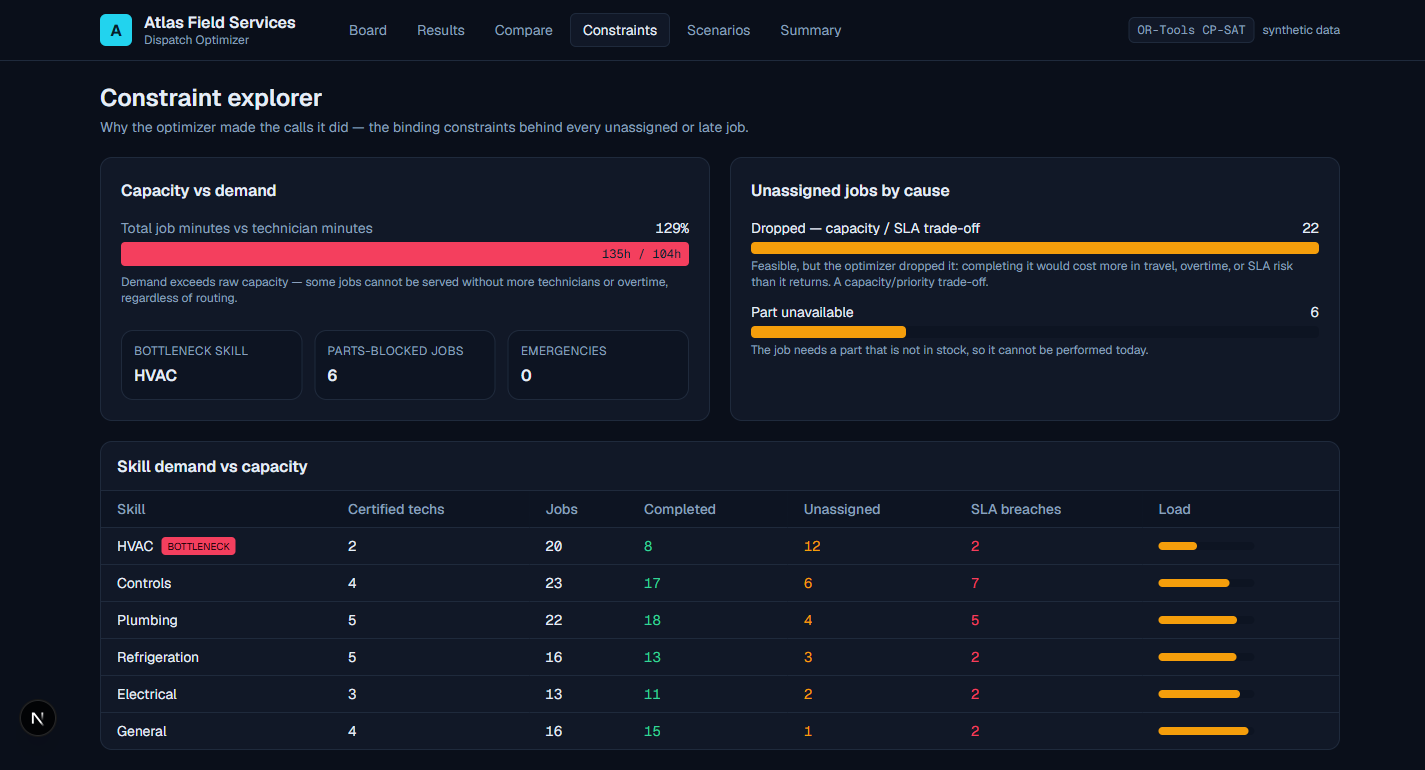
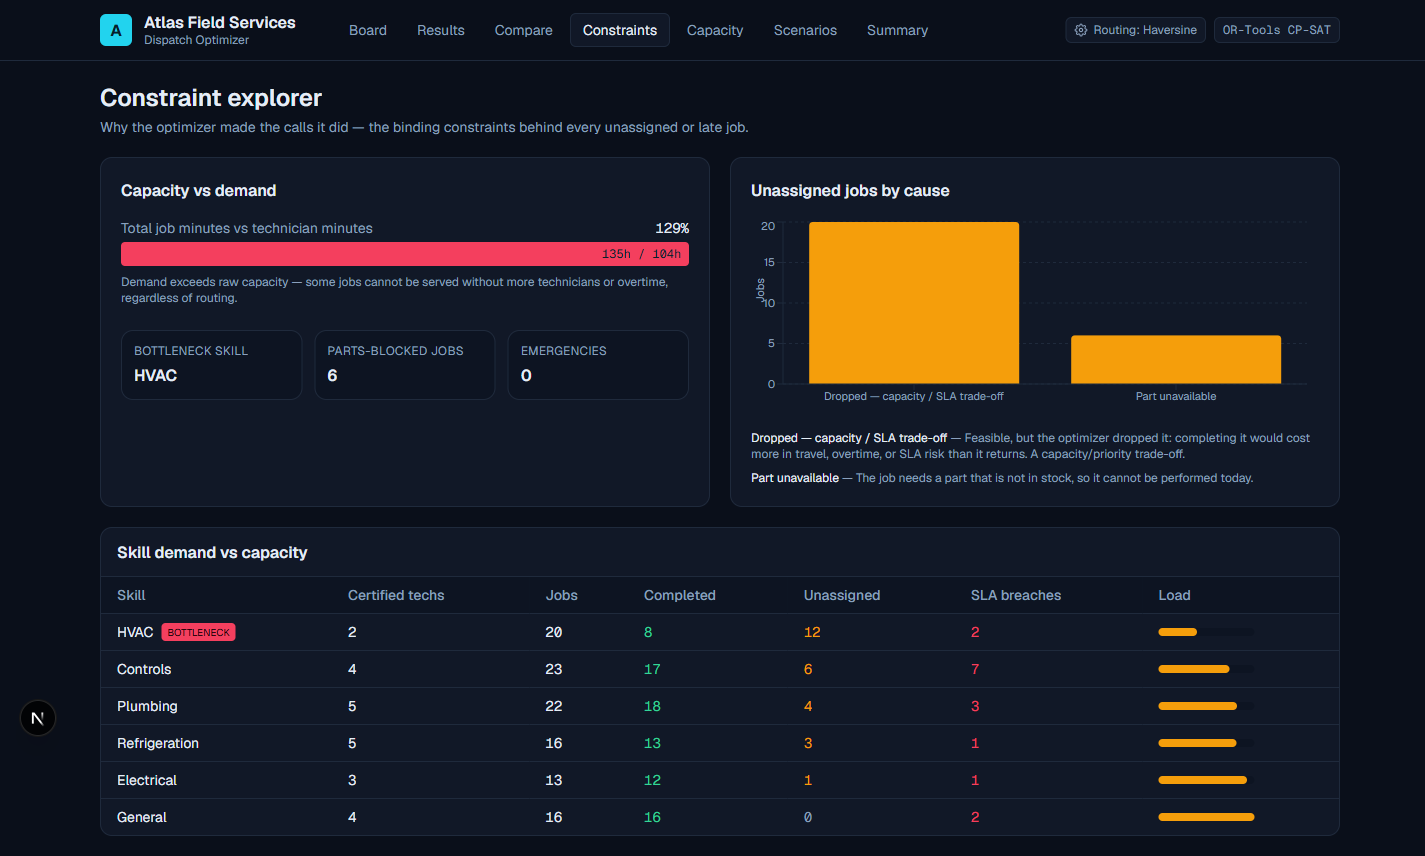
feat(frontend): port remaining charts to Recharts for visual consistency
Before/after (small multiples, per-metric scale), technician utilization
(grouped horizontal bars), and Constraint Explorer's unassigned-by-cause (bar
chart + explanation list) now use Recharts, matching the capacity page. Shared
chart theme in chartTheme.ts. Refreshed screenshots.

diff --git a/frontend/components/Charts.tsx b/frontend/components/Charts.tsx
@@ -1,92 +1,108 @@
 "use client";
 
+import {
+  Bar,
+  BarChart,
+  CartesianGrid,
+  Legend,
+  ResponsiveContainer,
+  Tooltip,
+  XAxis,
+  YAxis,
+} from "recharts";
 import { Utilization } from "@/lib/api";
+import { AXIS, COLOR_MANUAL, COLOR_OPT, GRID, TOOLTIP } from "@/components/chartTheme";
 
 interface BarRow {
   label: string;
   baseline: number;
   optimized: number;
-  betterWhenLower?: boolean;
   unit?: string;
 }
 
-/** Grouped baseline-vs-optimized bars, one group per metric. */
+/** Before/after as small multiples — one mini chart per metric, each on its own
+ *  scale (metrics have very different magnitudes, so a shared axis would lie). */
 export function BeforeAfterChart({ rows }: { rows: BarRow[] }) {
   return (
-    <div className="space-y-4">
-      {rows.map((r) => {
-        const max = Math.max(r.baseline, r.optimized, 1);
-        const bw = (r.baseline / max) * 100;
-        const ow = (r.optimized / max) * 100;
-        return (
-          <div key={r.label}>
-            <div className="flex justify-between text-sm mb-1">
-              <span style={{ color: "var(--muted)" }}>{r.label}</span>
-            </div>
-            <div className="space-y-1">
-              <Bar value={r.baseline} widthPct={bw} color="#64748b" tag="Manual" unit={r.unit} />
-              <Bar value={r.optimized} widthPct={ow} color="var(--accent)" tag="Optimized" unit={r.unit} />
-            </div>
+    <div className="grid grid-cols-2 gap-4">
+      {rows.map((r) => (
+        <div key={r.label}>
+          <div className="text-xs mb-1" style={{ color: "var(--muted)" }}>
+            {r.label}{r.unit ? ` (${r.unit})` : ""}
           </div>
-        );
-      })}
-    </div>
-  );
-}
-
-function Bar({ value, widthPct, color, tag, unit }: {
-  value: number; widthPct: number; color: string; tag: string; unit?: string;
-}) {
-  return (
-    <div className="flex items-center gap-2">
-      <span className="w-20 text-xs" style={{ color: "var(--muted)" }}>{tag}</span>
-      <div className="flex-1 h-6 rounded" style={{ background: "var(--panel-2)" }}>
-        <div className="h-6 rounded flex items-center justify-end pr-2"
-          style={{ width: `${Math.max(widthPct, 6)}%`, background: color }}>
-          <span className="text-xs font-medium mono" style={{ color: "#06202b" }}>
-            {value}{unit}
-          </span>
-        </div>
-      </div>
-    </div>
-  );
-}
-
-/** Per-technician utilization, baseline vs optimized, to show load balancing. */
-export function UtilizationChart({ baseline, optimized }: {
-  baseline: Utilization[]; optimized: Utilization[];
-}) {
-  const byTech = new Map<number, { name: string; b?: number; o?: number }>();
-  for (const u of baseline) byTech.set(u.tech_id, { name: u.tech_name, b: u.utilization_pct });
-  for (const u of optimized) {
-    const e = byTech.get(u.tech_id) ?? { name: u.tech_name };
-    e.o = u.utilization_pct;
-    byTech.set(u.tech_id, e);
-  }
-  const rows = [...byTech.entries()].sort((a, b) => a[0] - b[0]);
-
-  return (
-    <div className="space-y-2">
-      {rows.map(([id, r]) => (
-        <div key={id} className="flex items-center gap-2 text-xs">
-          <span className="w-16" style={{ color: "var(--muted)" }}>{r.name}</span>
-          <div className="flex-1 grid grid-cols-1 gap-0.5">
-            <Track pct={r.b ?? 0} color="#64748b" />
-            <Track pct={r.o ?? 0} color="var(--accent)" />
-          </div>
-          <span className="w-24 text-right mono" style={{ color: "var(--muted)" }}>
-            {(r.b ?? 0).toFixed(0)}% → {(r.o ?? 0).toFixed(0)}%
-          </span>
+          <ResponsiveContainer width="100%" height={130}>
+            <BarChart data={[{ name: "Manual", v: r.baseline }, { name: "Optimized", v: r.optimized }]}
+              margin={{ top: 4, right: 8, bottom: 0, left: 4 }}>
+              <CartesianGrid stroke={GRID} strokeDasharray="3 3" vertical={false} />
+              <XAxis dataKey="name" tick={AXIS} stroke={GRID} />
+              <YAxis tick={AXIS} stroke={GRID} width={28} />
+              <Tooltip {...TOOLTIP} />
+              <Bar dataKey="v" name={r.label} radius={[4, 4, 0, 0]} isAnimationActive={false}
+                fill={COLOR_OPT}
+                // color the Manual bar grey, Optimized accent
+                shape={(props: unknown) => {
+                  // eslint-disable-next-line @typescript-eslint/no-explicit-any
+                  const p = props as any;
+                  const fill = p.payload.name === "Manual" ? COLOR_MANUAL : COLOR_OPT;
+                  return <rect x={p.x} y={p.y} width={p.width} height={p.height} rx={4} fill={fill} />;
+                }} />
+            </BarChart>
+          </ResponsiveContainer>
         </div>
       ))}
     </div>
   );
 }
 
-function Track({ pct, color }: { pct: number; color: string }) {
+/** Per-technician utilization, Manual vs Optimized, as grouped bars (shared %
+ *  axis since utilization is the same unit for every technician). */
+export function UtilizationChart({ baseline, optimized }: {
+  baseline: Utilization[]; optimized: Utilization[];
+}) {
+  const byTech = new Map<number, { name: string; manual?: number; optimized?: number }>();
+  for (const u of baseline) byTech.set(u.tech_id, { name: u.tech_name, manual: u.utilization_pct });
+  for (const u of optimized) {
+    const e = byTech.get(u.tech_id) ?? { name: u.tech_name };
+    e.optimized = u.utilization_pct;
+    byTech.set(u.tech_id, e);
+  }
+  const data = [...byTech.entries()].sort((a, b) => a[0] - b[0]).map(([, r]) => ({
+    name: r.name.replace("Tech ", "T"),
+    Manual: Math.round(r.manual ?? 0),
+    Optimized: Math.round(r.optimized ?? 0),
+  }));
+
   return (
-    <div className="h-2 rounded" style={{ background: "var(--panel-2)" }}>
-      <div className="h-2 rounded" style={{ width: `${Math.min(pct, 100)}%`, background: color }} />
-    </div>
+    <ResponsiveContainer width="100%" height={Math.max(220, data.length * 26)}>
+      <BarChart data={data} layout="vertical" margin={{ top: 4, right: 16, bottom: 4, left: 4 }}>
+        <CartesianGrid stroke={GRID} strokeDasharray="3 3" horizontal={false} />
+        <XAxis type="number" domain={[0, 100]} tick={AXIS} stroke={GRID} unit="%" />
+        <YAxis type="category" dataKey="name" tick={AXIS} stroke={GRID} width={36} />
+        {/* eslint-disable-next-line @typescript-eslint/no-explicit-any */}
+        <Tooltip {...TOOLTIP} formatter={(v: any) => [`${v}%`, "Utilization"]} />
+        <Legend wrapperStyle={{ fontSize: 12, color: "var(--muted)" }} />
+        <Bar dataKey="Manual" fill={COLOR_MANUAL} radius={[0, 3, 3, 0]} isAnimationActive={false} />
+        <Bar dataKey="Optimized" fill={COLOR_OPT} radius={[0, 3, 3, 0]} isAnimationActive={false} />
+      </BarChart>
+    </ResponsiveContainer>
+  );
+}
+
+/** Single-series vertical bar chart (e.g. unassigned jobs by cause). */
+export function SimpleBarChart({ data, xKey, barKey, color, yLabel, height = 220 }: {
+  // eslint-disable-next-line @typescript-eslint/no-explicit-any
+  data: any[]; xKey: string; barKey: string; color: string; yLabel?: string; height?: number;
+}) {
+  return (
+    <ResponsiveContainer width="100%" height={height}>
+      <BarChart data={data} margin={{ top: 4, right: 12, bottom: 4, left: 4 }}>
+        <CartesianGrid stroke={GRID} strokeDasharray="3 3" vertical={false} />
+        <XAxis dataKey={xKey} tick={AXIS} stroke={GRID} interval={0} />
+        <YAxis tick={AXIS} stroke={GRID} width={28} allowDecimals={false}
+          label={yLabel ? { value: yLabel, angle: -90, position: "insideLeft", fill: "var(--muted)", fontSize: 11 } : undefined} />
+        <Tooltip {...TOOLTIP} />
+        <Bar dataKey={barKey} fill={color} radius={[4, 4, 0, 0]} isAnimationActive={false} />
+      </BarChart>
+    </ResponsiveContainer>
   );
 }

diff --git a/frontend/app/constraints/page.tsx b/frontend/app/constraints/page.tsx
@@ -1,5 +1,6 @@
 "use client";
 
+import { SimpleBarChart } from "@/components/Charts";
 import { EmptyState } from "@/components/EmptyState";
 import { useDispatch } from "@/app/providers";
 import { REASON_LABEL } from "@/lib/format";
@@ -17,7 +18,6 @@ export default function ConstraintsPage() {
 
   const d = result.diagnostics;
   const capPct = Math.round((d.total_demand_minutes / Math.max(1, d.total_capacity_minutes)) * 100);
-  const maxReason = Math.max(1, ...d.unassigned_by_reason.map((r) => r.count));
 
   return (
     <div className="mx-auto max-w-7xl p-5 space-y-5">
@@ -64,22 +64,21 @@ export default function ConstraintsPage() {
           {d.unassigned_by_reason.length === 0 ? (
             <p className="text-sm" style={{ color: "var(--muted)" }}>Every job was assigned.</p>
           ) : (
-            <div className="space-y-3">
-              {d.unassigned_by_reason.map((r) => (
-                <div key={r.reason}>
-                  <div className="flex justify-between text-sm mb-1">
-                    <span>{REASON_LABEL[r.reason] ?? r.reason}</span>
-                    <span className="mono">{r.count}</span>
-                  </div>
-                  <div className="h-3 rounded" style={{ background: "var(--panel-2)" }}>
-                    <div className="h-3 rounded" style={{ width: `${(r.count / maxReason) * 100}%`, background: "var(--warn)" }} />
-                  </div>
-                  <p className="text-xs mt-1" style={{ color: "var(--muted)" }}>
-                    {REASON_EXPLAIN[r.reason]}
-                  </p>
-                </div>
-              ))}
-            </div>
+            <>
+              <SimpleBarChart
+                data={d.unassigned_by_reason.map((r) => ({
+                  reason: REASON_LABEL[r.reason] ?? r.reason, count: r.count,
+                }))}
+                xKey="reason" barKey="count" color="var(--warn)" yLabel="Jobs" height={200} />
+              <ul className="mt-3 space-y-2">
+                {d.unassigned_by_reason.map((r) => (
+                  <li key={r.reason} className="text-xs" style={{ color: "var(--muted)" }}>
+                    <span style={{ color: "var(--foreground)" }}>{REASON_LABEL[r.reason] ?? r.reason}</span>
+                    {" — "}{REASON_EXPLAIN[r.reason]}
+                  </li>
+                ))}
+              </ul>
+            </>
           )}
         </div>
       </div>

diff --git a/frontend/components/chartTheme.ts b/frontend/components/chartTheme.ts
@@ -1,0 +1,21 @@
+// Shared Recharts theme tokens so every chart matches the dark UI.
+
+export const AXIS = { fill: "var(--muted)", fontSize: 11 };
+export const GRID = "var(--border)";
+export const TOOLTIP = {
+  contentStyle: {
+    background: "var(--panel)",
+    border: "1px solid var(--border)",
+    borderRadius: 8,
+    color: "var(--foreground)",
+    fontSize: 12,
+  },
+  labelStyle: { color: "var(--muted)" },
+  itemStyle: { color: "var(--foreground)" },
+  cursor: { fill: "rgba(148,163,184,0.08)" },
+};
+
+export const COLOR_MANUAL = "#64748b";
+export const COLOR_OPT = "#22d3ee";
+export const COLOR_GOOD = "#34d399";
+export const COLOR_WARN = "#f59e0b";

diff --git a/frontend/components/CapacityCharts.tsx b/frontend/components/CapacityCharts.tsx
@@ -13,21 +13,7 @@ import {
   XAxis,
   YAxis,
 } from "recharts";
-
-const AXIS = { fill: "var(--muted)", fontSize: 11 };
-const GRID = "var(--border)";
-const TOOLTIP = {
-  contentStyle: {
-    background: "var(--panel)",
-    border: "1px solid var(--border)",
-    borderRadius: 8,
-    color: "var(--foreground)",
-    fontSize: 12,
-  },
-  labelStyle: { color: "var(--muted)" },
-  itemStyle: { color: "var(--foreground)" },
-  cursor: { stroke: "var(--border)" },
-};
+import { AXIS, GRID, TOOLTIP } from "@/components/chartTheme";
 
 export interface LineDef { key: string; name: string; color: string; }
 
